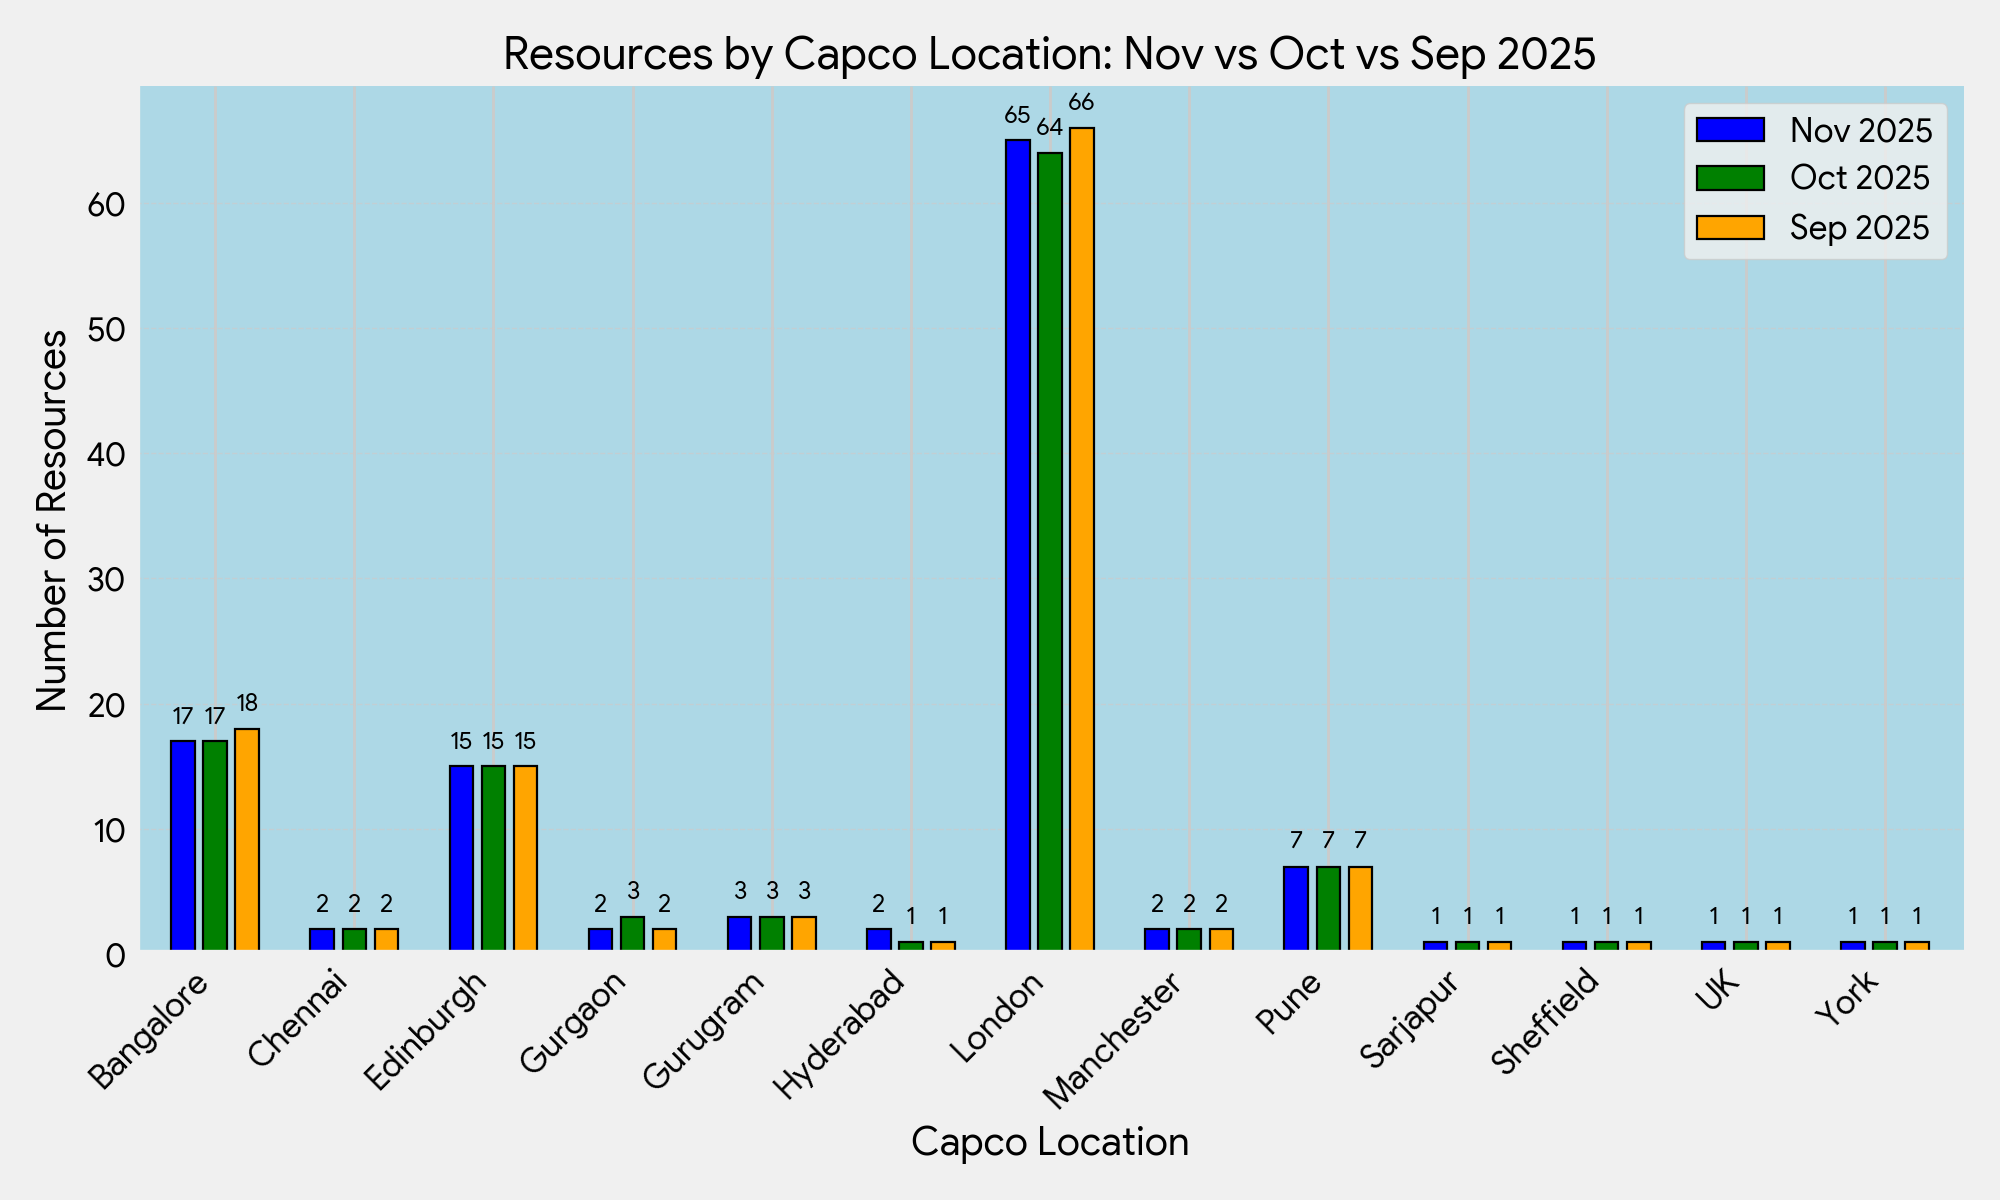
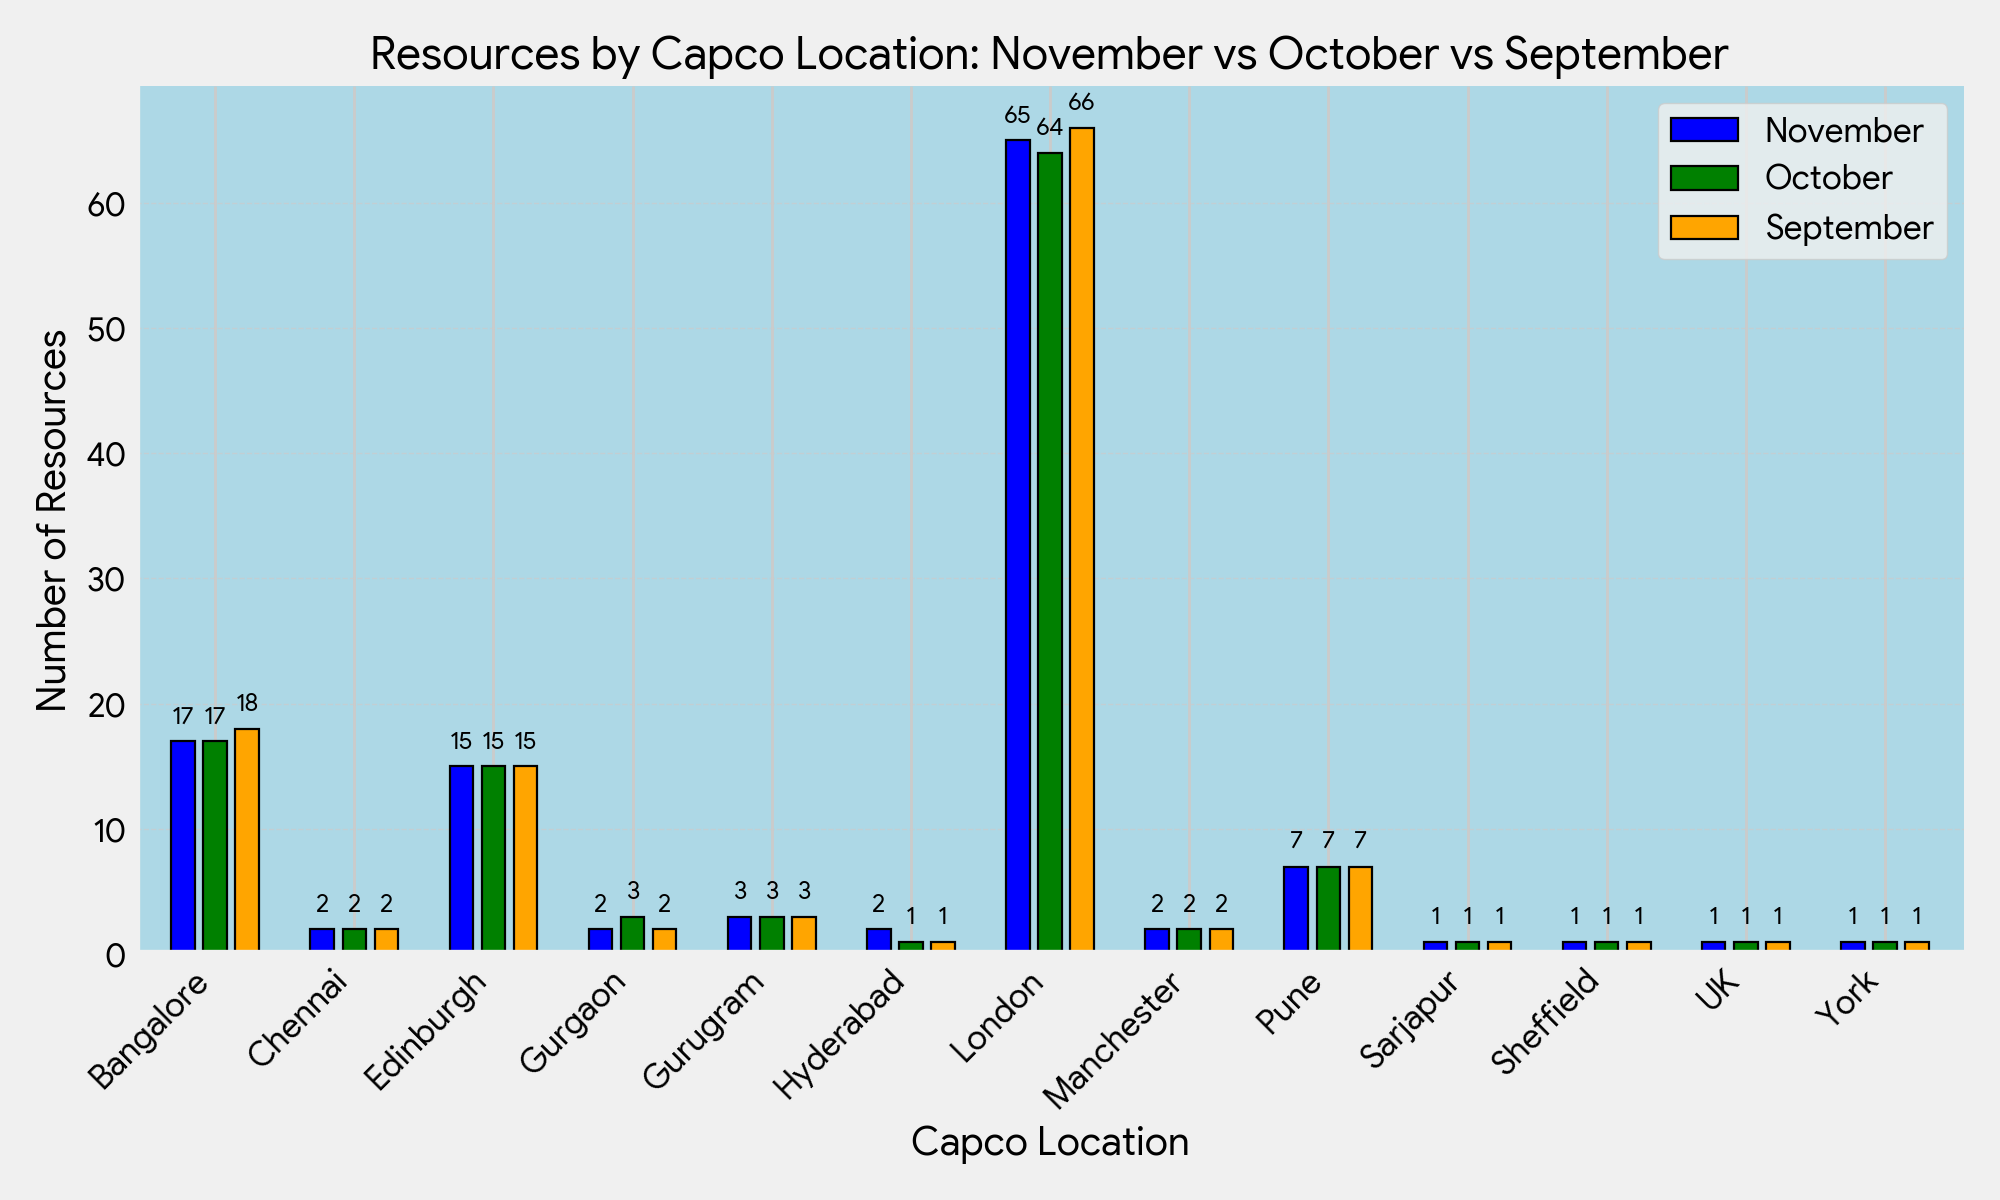
changed month names to be configurable

Changed region(s): [[0.186, 0.0308, 0.868, 0.0617], [0.806, 0.0925, 0.961, 0.2158]]

diff --git a/plotter.py b/plotter.py
@@ -8,14 +8,14 @@ def setup_style():
     plt.style.use(config.STYLE)
     plt.rc("font", family=config.FONT_FAMILY, size=config.FONT_SIZE)
 
-def plot_total_on_account(df_nov, df_oct, df_sep):
+def plot_total_on_account(df_1, df_2, df_3):
     """Plots the Total Consulting Resources on Account."""
-    total_nov = len(df_nov)
-    total_oct = len(df_oct)
-    total_sep = len(df_sep)
+    total_1 = len(df_1)
+    total_2 = len(df_2)
+    total_3 = len(df_3)
 
-    labels = ["Nov 2025", "Oct 2025", "Sep 2025"]
-    vals   = [total_nov, total_oct, total_sep]
+    labels = [config.MONTH_1, config.MONTH_2, config.MONTH_3]
+    vals   = [total_1, total_2, total_3]
 
     fig, ax = plt.subplots(figsize=(6, 4))
     ax.set_facecolor(config.FACE_COLOUR)
@@ -31,28 +31,28 @@ def plot_total_on_account(df_nov, df_oct, df_sep):
     plt.savefig(output_path, dpi=200)
     plt.close(fig)
 
-def plot_grouped_comparisons(df_nov, df_oct, df_sep):
+def plot_grouped_comparisons(df_1, df_2, df_3):
     """Plots grouped comparisons for various categories."""
     for label, col in config.CATEGORIES.items():
         # Count per month (exclude NA)
-        counts_nov = df_nov[col].dropna().value_counts()
-        counts_oct = df_oct[col].dropna().value_counts()
-        counts_sep = df_sep[col].dropna().value_counts()
+        counts_1 = df_1[col].dropna().value_counts()
+        counts_2 = df_2[col].dropna().value_counts()
+        counts_3 = df_3[col].dropna().value_counts()
 
         # For Project/Programme, take a stable Top-5 across ALL months combined
         if label == "Project Programme":
-            all_counts = counts_nov.add(counts_oct, fill_value=0).add(counts_sep, fill_value=0)
+            all_counts = counts_1.add(counts_2, fill_value=0).add(counts_3, fill_value=0)
             topN = all_counts.sort_values(ascending=False).head(10).index
             idx = list(topN)
-            counts_nov = counts_nov.reindex(idx, fill_value=0)
-            counts_oct = counts_oct.reindex(idx, fill_value=0)
-            counts_sep = counts_sep.reindex(idx, fill_value=0)
+            counts_1 = counts_1.reindex(idx, fill_value=0)
+            counts_2 = counts_2.reindex(idx, fill_value=0)
+            counts_3 = counts_3.reindex(idx, fill_value=0)
         else:
             # Align to the union of categories for the other dimensions
-            idx = sorted(set(counts_nov.index).union(counts_oct.index).union(counts_sep.index))
-            counts_nov = counts_nov.reindex(idx, fill_value=0)
-            counts_oct = counts_oct.reindex(idx, fill_value=0)
-            counts_sep = counts_sep.reindex(idx, fill_value=0)
+            idx = sorted(set(counts_1.index).union(counts_2.index).union(counts_3.index))
+            counts_1 = counts_1.reindex(idx, fill_value=0)
+            counts_2 = counts_2.reindex(idx, fill_value=0)
+            counts_3 = counts_3.reindex(idx, fill_value=0)
 
         # --- spacing controls ---
         n = 3               
@@ -65,9 +65,9 @@ def plot_grouped_comparisons(df_nov, df_oct, df_sep):
         total_width = n * bar_width + (n - 1) * inner_gap
         start = x - total_width / 2 + bar_width / 2  # left bar center within each group
 
-        nov_x = start
-        oct_x = start + (bar_width + inner_gap)
-        sep_x = start + 2 * (bar_width + inner_gap)
+        month_1_x = start
+        month_2_x = start + (bar_width + inner_gap)
+        month_3_x = start + 2 * (bar_width + inner_gap)
 
         # Plot
         fig, ax = plt.subplots(figsize=(10, 6))
@@ -77,18 +77,18 @@ def plot_grouped_comparisons(df_nov, df_oct, df_sep):
         ax.yaxis.grid(True, linestyle="--", linewidth=0.5, alpha=0.7)
         ax.set_axisbelow(True)
 
-        ax.bar(nov_x, counts_nov.values, bar_width, label="Nov 2025", color="blue",   edgecolor="k", linewidth=0.8)
-        ax.bar(oct_x, counts_oct.values, bar_width, label="Oct 2025", color="green",   edgecolor="k", linewidth=0.8)
-        ax.bar(sep_x, counts_sep.values, bar_width, label="Sep 2025", color="orange",  edgecolor="k", linewidth=0.8)
+        ax.bar(month_1_x, counts_1.values, bar_width, label=config.MONTH_1, color="blue",   edgecolor="k", linewidth=0.8)
+        ax.bar(month_2_x, counts_2.values, bar_width, label=config.MONTH_2, color="green",   edgecolor="k", linewidth=0.8)
+        ax.bar(month_3_x, counts_3.values, bar_width, label=config.MONTH_3, color="orange",  edgecolor="k", linewidth=0.8)
 
-        ax.set_title(f"Resources by {label}: Nov vs Oct vs Sep 2025", fontsize=16)
+        ax.set_title(f"Resources by {label}: {config.MONTH_1} vs {config.MONTH_2} vs {config.MONTH_3}", fontsize=16)
         ax.set_xlabel(label, fontsize=14)
         ax.set_ylabel("Number of Resources", fontsize=14)
         ax.set_xticks(x)
         ax.set_xticklabels(idx, rotation=45, ha="right")
 
         # Label bars at their own centers
-        for cx, series in [(nov_x, counts_nov.values), (oct_x, counts_oct.values), (sep_x, counts_sep.values)]:
+        for cx, series in [(month_1_x, counts_1.values), (month_2_x, counts_2.values), (month_3_x, counts_3.values)]:
             for xi, yi in zip(cx, series):
                 ax.text(xi, yi + 1, str(int(yi)), ha="center", va="bottom", fontsize=9)
 

diff --git a/main.py b/main.py
@@ -14,27 +14,27 @@ def main():
 
     # 2) Read sheets
     print("Loading data...")
-    df_nov, df_oct, df_sep = data_loader.load_data(excel_path)
+    df_1, df_2, df_3 = data_loader.load_data(excel_path)
 
     # 3) Clean data
     print("Cleaning data...")
-    df_nov, df_oct, df_sep = data_cleaner.clean_dataframes(df_nov, df_oct, df_sep)
+    df_1, df_2, df_3 = data_cleaner.clean_dataframes(df_1, df_2, df_3)
     
-    print(f"Nov records: {len(df_nov)}")
-    print(f"Oct records: {len(df_oct)}")
-    print(f"Sep records: {len(df_sep)}")
+    print(f"{config.MONTH_1} records: {len(df_1)}")
+    print(f"{config.MONTH_2} records: {len(df_2)}")
+    print(f"{config.MONTH_3} records: {len(df_3)}")
 
     # 4) Plotting
     print("Generating plots...")
     plotter.setup_style()
-    plotter.plot_total_on_account(df_nov, df_oct, df_sep)
-    plotter.plot_grouped_comparisons(df_nov, df_oct, df_sep)
+    plotter.plot_total_on_account(df_1, df_2, df_3)
+    plotter.plot_grouped_comparisons(df_1, df_2, df_3)
 
     # 5) Sanity check (Optional)
     target = "Project Rome"
-    print("NOV Project Rome =", (df_nov["Project / Programme"] == target).sum())
-    print("OCT Project Rome =", (df_oct["Project / Programme"] == target).sum())
-    print("SEP Project Rome =", (df_sep["Project / Programme"] == target).sum())
+    print(f"{config.MONTH_1} Project Rome =", (df_1["Project / Programme"] == target).sum())
+    print(f"{config.MONTH_2} Project Rome =", (df_2["Project / Programme"] == target).sum())
+    print(f"{config.MONTH_3} Project Rome =", (df_3["Project / Programme"] == target).sum())
 
     print("Done! Check the 'outputs' folder.")
 

diff --git a/data_cleaner.py b/data_cleaner.py
@@ -8,23 +8,23 @@ def clean_col(series: pd.Series) -> pd.Series:
     s = s.str.strip().str.replace(r"\s+", " ", regex=True)
     return s
 
-def clean_dataframes(df_nov, df_oct, df_sep):
+def clean_dataframes(df_1, df_2, df_3):
     """Applies cleaning logic to the dataframes."""
     
     # Drop rows with missing 'Resource Full Name'
-    df_nov = df_nov.dropna(subset=['Resource Full Name']).copy()
-    df_oct = df_oct.dropna(subset=['Resource Full Name']).copy()
-    df_sep = df_sep.dropna(subset=['Resource Full Name']).copy()
+    df_1 = df_1.dropna(subset=['Resource Full Name']).copy()
+    df_2 = df_2.dropna(subset=['Resource Full Name']).copy()
+    df_3 = df_3.dropna(subset=['Resource Full Name']).copy()
 
     # Clean column names
-    df_nov.columns = df_nov.columns.str.strip()
-    df_oct.columns = df_oct.columns.str.strip()
-    df_sep.columns = df_sep.columns.str.strip()
+    df_1.columns = df_1.columns.str.strip()
+    df_2.columns = df_2.columns.str.strip()
+    df_3.columns = df_3.columns.str.strip()
 
     # Normalize values for category columns
-    for df in (df_nov, df_oct, df_sep):
+    for df in (df_1, df_2, df_3):
         for col in config.CATEGORIES.values():
             if col in df.columns:
                 df[col] = clean_col(df[col])
                 
-    return df_nov, df_oct, df_sep
+    return df_1, df_2, df_3

diff --git a/data_loader.py b/data_loader.py
@@ -13,8 +13,8 @@ def get_excel_path(base_dir="."):
 
 def load_data(excel_path):
     """Loads the specific sheets from the Excel file."""
-    df_nov = pd.read_excel(excel_path, sheet_name=config.SHEET_NOV)
-    df_oct = pd.read_excel(excel_path, sheet_name=config.SHEET_OCT)
-    df_sep = pd.read_excel(excel_path, sheet_name=config.SHEET_SEP)
+    df_1 = pd.read_excel(excel_path, sheet_name=config.SHEET_1)
+    df_2 = pd.read_excel(excel_path, sheet_name=config.SHEET_2)
+    df_3 = pd.read_excel(excel_path, sheet_name=config.SHEET_3)
     
-    return df_nov, df_oct, df_sep
+    return df_1, df_2, df_3

diff --git a/config.py b/config.py
@@ -9,9 +9,13 @@ FONT_SIZE = 12
 OUTPUT_DIR = "outputs"
 
 # Sheet names
-SHEET_NOV = "DATA_Nov25"
-SHEET_OCT = "DATA-Oct25"
-SHEET_SEP = "Data_SEPT25"
+SHEET_1 = "DATA_Nov25"
+SHEET_2 = "DATA-Oct25"
+SHEET_3 = "Data_SEPT25"
+
+MONTH_1 = "November"
+MONTH_2 = "October"
+MONTH_3 = "September" 
 
 # Column mapping
 CATEGORIES = {
